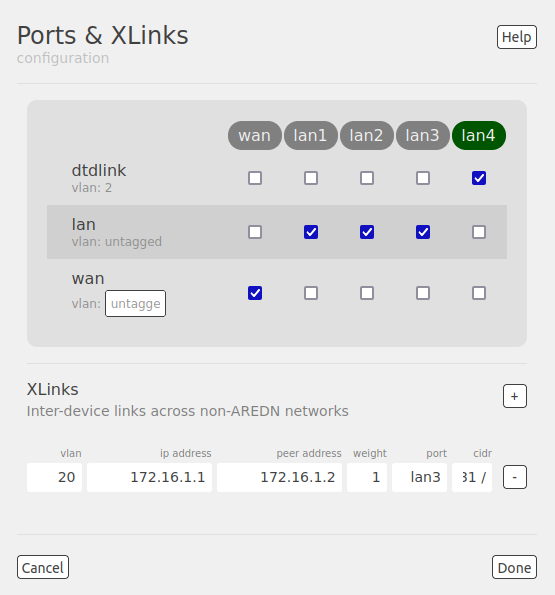
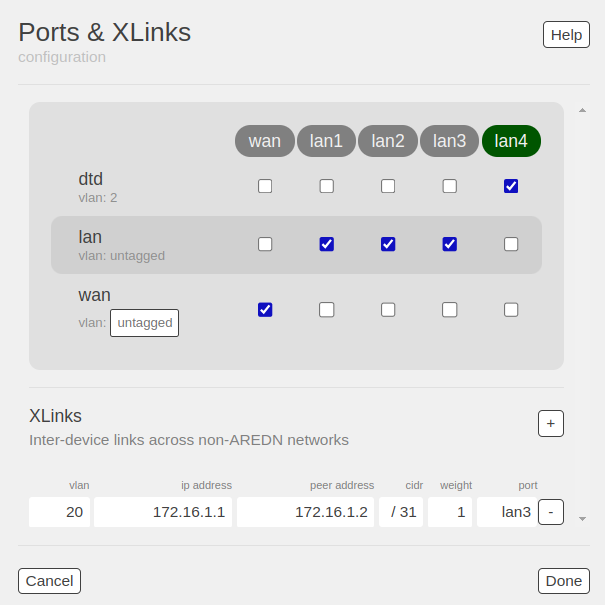
newUI-49

diff --git a/arednGettingStarted/node_status.rst b/arednGettingStarted/node_status.rst
@@ -94,10 +94,10 @@ Right Column
 The right column displays additional details about your node (listed from top to bottom).
 
 Radio section
-  Your radio manufacturer and model are displayed at the top of the column. Next is the channel number and frequency range set on your radio, followed by the channel width (in :abbr:`MHz (Megahertz)`). Below that is the transmit power (in :abbr:`dBm (decibels in millivolts)`), the maximum distance (in miles), and the minimum :abbr:`snr (signal to noise ratio)` (in :abbr:`dB (decibels)`) set for communication with other :abbr:`RF (radio frequency)` nodes. Your node's antenna information is listed next, including the type of antenna, the azimuth, height above ground level, and tilt angle / elevation (if directional).
+  Your device manufacturer and model are displayed at the top of the column. If a radio is configured as a ``Mesh`` radio then you will see the channel number and frequency range, followed by the channel width (in :abbr:`MHz (Megahertz)`). Next is the transmit power (in :abbr:`dBm (decibels in millivolts)`), the maximum distance (in miles), and the minimum :abbr:`snr (signal to noise ratio)` (in :abbr:`dB (decibels)`) for communication with other :abbr:`RF (radio frequency)` nodes. Your node's antenna information is listed next, including the type of antenna, the azimuth, height above ground level, and tilt angle / elevation (if directional).
 
 Mesh section
-  Next there are summary statistics showing how many nodes are currently visible on the network, as well as the total number of devices that exist on the mesh.
+  Next there are summary statistics showing how many nodes are currently visible on the network, as well as the total number of devices on the mesh.
 
 LAN DHCP section
   By default each node runs a `DHCP <https://en.wikipedia.org/wiki/Dynamic_Host_Configuration_Protocol>`_ server which is capable of automatically providing IP addresses for any LAN-connected devices. This section shows the :abbr:`DHCP (Dynamic Host Configuration Protocol)` server status, the IP address/netmask of your node functioning as the gateway for its LAN-connected devices, and the IP address range served by your node. It also shows the number of active leases and IP addresses reserved for specific devices on its :abbr:`LAN (Local Area Network)`. In addition, counts are displayed for the number of DHCP tags and options that are defined on your node.

diff --git a/arednGettingStarted/node_admin.rst b/arednGettingStarted/node_admin.rst
@@ -649,9 +649,9 @@ Ports (if available)
   If you want to change a port's configuration, simply check or uncheck the settings desired on each port.
 
 Xlinks
-  A cross-link (xlink) allows your node to pass AREDN® traffic across non-AREDN® links. To add an xlink click the [+] icon, enter an unused VLAN number for the link. Enter the IP address of the near-side device, the IP address of the far-side device, and a weighting factor which will be used by `OLSR <https://en.wikipedia.org/wiki/Optimized_Link_State_Routing_Protocol>`_ to determine the best route for AREDN® traffic.
+  A cross-link (xlink) allows your node to pass AREDN® traffic across non-AREDN® links. To add an xlink click the [+] icon, enter an unused VLAN number for the link. Enter the IP address of the near-side device, the IP address of the far-side device, the `CIDR <https://en.wikipedia.org/wiki/Classless_Inter-Domain_Routing>`_ netmask, and a weighting factor which will be used by `OLSR <https://en.wikipedia.org/wiki/Optimized_Link_State_Routing_Protocol>`_ to determine the best route for AREDN® traffic.
 
-  In the example above on a multiport device, you also enter the port to which the near-side device is connected on your node, as well as the `CIDR <https://en.wikipedia.org/wiki/Classless_Inter-Domain_Routing>`_ netmask. If you want to remove an xlink, simply click the [-] icon on the right side of the row to remove it.
+  In the example above on a multiport device, you also enter the port to which the near-side device is connected on your node. If you want to remove an xlink, simply click the [-] icon on the right side of the row to remove it.
 
 You can click the ``Cancel`` button to ignore any changes you made on this display. When you are finished with your changes, click the ``Done`` button. You will then be returned to your node's *admin* view where you will be able to ``Commit`` or ``Revert`` any changes.
 
